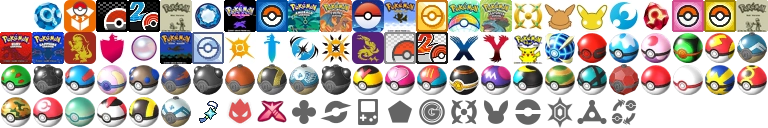
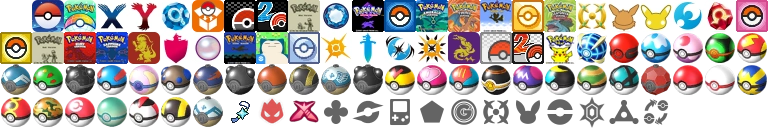
Add basic support for Pokémon Sleep

diff --git a/images/iconsheet.css b/images/iconsheet.css
@@ -1,1 +1,1 @@
-.icon {background-image: var(--link-iconsheet);background-repeat: no-repeat;display: inline-block;width:32px;height:32px}.icon[data-icon^="ball/"]{scale:.6}.icon[data-icon^="game/"]{border-radius:calc(.5 * var(--border-radius))}.icon[data-icon="game/alphasapphire"]{background-position: -32px -0px}.icon[data-icon="game/bank"]{background-position: -64px -0px}.icon[data-icon="game/black"]{background-position: -96px -0px}.icon[data-icon="game/black2"]{background-position: -128px -0px}.icon[data-icon="game/blue"]{background-position: -160px -0px}.icon[data-icon="game/brilliantdiamond"]{background-position: -192px -0px}.icon[data-icon="game/crystal"]{background-position: -224px -0px}.icon[data-icon="game/diamond"]{background-position: -256px -0px}.icon[data-icon="game/emerald"]{background-position: -288px -0px}.icon[data-icon="game/firered"]{background-position: -320px -0px}.icon[data-icon="game/go"]{background-position: -352px -0px}.icon[data-icon="game/gold"]{background-position: -384px -0px}.icon[data-icon="game/heartgold"]{background-position: -416px -0px}.icon[data-icon="game/home"]{background-position: -448px -0px}.icon[data-icon="game/leafgreen"]{background-position: -480px -0px}.icon[data-icon="game/legendsarceus"]{background-position: -512px -0px}.icon[data-icon="game/letsgoeevee"]{background-position: -544px -0px}.icon[data-icon="game/letsgopikachu"]{background-position: -576px -0px}.icon[data-icon="game/moon"]{background-position: -608px -0px}.icon[data-icon="game/omegaruby"]{background-position: -640px -0px}.icon[data-icon="game/pearl"]{background-position: -672px -0px}.icon[data-icon="game/platinum"]{background-position: -704px -0px}.icon[data-icon="game/red"]{background-position: -736px -0px}.icon[data-icon="game/ruby"]{background-position: -0px -32px}.icon[data-icon="game/sapphire"]{background-position: -32px -32px}.icon[data-icon="game/scarlet"]{background-position: -64px -32px}.icon[data-icon="game/shield"]{background-position: -96px -32px}.icon[data-icon="game/shiningpearl"]{background-position: -128px -32px}.icon[data-icon="game/silver"]{background-position: -160px -32px}.icon[data-icon="game/soulsilver"]{background-position: -192px -32px}.icon[data-icon="game/sun"]{background-position: -224px -32px}.icon[data-icon="game/sword"]{background-position: -256px -32px}.icon[data-icon="game/ultramoon"]{background-position: -288px -32px}.icon[data-icon="game/ultrasun"]{background-position: -320px -32px}.icon[data-icon="game/violet"]{background-position: -352px -32px}.icon[data-icon="game/white"]{background-position: -384px -32px}.icon[data-icon="game/white2"]{background-position: -416px -32px}.icon[data-icon="game/x"]{background-position: -448px -32px}.icon[data-icon="game/y"]{background-position: -480px -32px}.icon[data-icon="game/yellow"]{background-position: -512px -32px}.icon[data-icon="ball/beast"]{background-position: -544px -32px}.icon[data-icon="ball/cherish"]{background-position: -576px -32px}.icon[data-icon="ball/dive"]{background-position: -608px -32px}.icon[data-icon="ball/dream"]{background-position: -640px -32px}.icon[data-icon="ball/dusk"]{background-position: -672px -32px}.icon[data-icon="ball/fast"]{background-position: -704px -32px}.icon[data-icon="ball/feather"]{background-position: -736px -32px}.icon[data-icon="ball/friend"]{background-position: -0px -64px}.icon[data-icon="ball/gigaton"]{background-position: -32px -64px}.icon[data-icon="ball/great"]{background-position: -64px -64px}.icon[data-icon="ball/heal"]{background-position: -96px -64px}.icon[data-icon="ball/heavy"]{background-position: -128px -64px}.icon[data-icon="ball/hisuian-great"]{background-position: -160px -64px}.icon[data-icon="ball/hisuian-heavy"]{background-position: -192px -64px}.icon[data-icon="ball/hisuian-poke"]{background-position: -224px -64px}.icon[data-icon="ball/hisuian-ultra"]{background-position: -256px -64px}.icon[data-icon="ball/jet"]{background-position: -288px -64px}.icon[data-icon="ball/leaden"]{background-position: -320px -64px}.icon[data-icon="ball/level"]{background-position: -352px -64px}.icon[data-icon="ball/love"]{background-position: -384px -64px}.icon[data-icon="ball/lure"]{background-position: -416px -64px}.icon[data-icon="ball/luxury"]{background-position: -448px -64px}.icon[data-icon="ball/master"]{background-position: -480px -64px}.icon[data-icon="ball/moon"]{background-position: -512px -64px}.icon[data-icon="ball/nest"]{background-position: -544px -64px}.icon[data-icon="ball/net"]{background-position: -576px -64px}.icon[data-icon="ball/origin"]{background-position: -608px -64px}.icon[data-icon="ball/poke"]{background-position: -640px -64px}.icon[data-icon="ball/premier"]{background-position: -672px -64px}.icon[data-icon="ball/quick"]{background-position: -704px -64px}.icon[data-icon="ball/repeat"]{background-position: -736px -64px}.icon[data-icon="ball/safari"]{background-position: -0px -96px}.icon[data-icon="ball/sport"]{background-position: -32px -96px}.icon[data-icon="ball/strange"]{background-position: -64px -96px}.icon[data-icon="ball/timer"]{background-position: -96px -96px}.icon[data-icon="ball/ultra"]{background-position: -128px -96px}.icon[data-icon="ball/wing"]{background-position: -160px -96px}.icon[data-icon="key/shiny-charm"]{background-position: -192px -96px}.icon[data-icon="gene/alpha"]{background-position: -224px -96px}.icon[data-icon="gene/gigantamax"]{background-position: -256px -96px}.icon[data-icon="origin-mark/alola"]{background-position: -288px -96px}.icon[data-icon="origin-mark/galar"]{background-position: -320px -96px}.icon[data-icon="origin-mark/game-boy"]{background-position: -352px -96px}.icon[data-icon="origin-mark/gen6"]{background-position: -384px -96px}.icon[data-icon="origin-mark/go"]{background-position: -416px -96px}.icon[data-icon="origin-mark/hisui"]{background-position: -448px -96px}.icon[data-icon="origin-mark/lets-go"]{background-position: -480px -96px}.icon[data-icon="origin-mark/old"]{background-position: -512px -96px}.icon[data-icon="origin-mark/paldea"]{background-position: -544px -96px}.icon[data-icon="origin-mark/sinnoh-gen8"]{background-position: -576px -96px}.icon[data-icon="other/traded"]{background-position: -608px -96px}
+.icon {background-image: var(--link-iconsheet);background-repeat: no-repeat;display: inline-block;width:32px;height:32px}.icon[data-icon^="ball/"]{scale:.6}.icon[data-icon^="game/"]{border-radius:calc(.5 * var(--border-radius))}.icon[data-icon="game/GO"]{background-position: -32px -0px}.icon[data-icon="game/Home"]{background-position: -64px -0px}.icon[data-icon="game/X"]{background-position: -96px -0px}.icon[data-icon="game/Y"]{background-position: -128px -0px}.icon[data-icon="game/alphasapphire"]{background-position: -160px -0px}.icon[data-icon="game/bank"]{background-position: -192px -0px}.icon[data-icon="game/black"]{background-position: -224px -0px}.icon[data-icon="game/black2"]{background-position: -256px -0px}.icon[data-icon="game/blue"]{background-position: -288px -0px}.icon[data-icon="game/brilliantdiamond"]{background-position: -320px -0px}.icon[data-icon="game/crystal"]{background-position: -352px -0px}.icon[data-icon="game/diamond"]{background-position: -384px -0px}.icon[data-icon="game/emerald"]{background-position: -416px -0px}.icon[data-icon="game/firered"]{background-position: -448px -0px}.icon[data-icon="game/gold"]{background-position: -480px -0px}.icon[data-icon="game/heartgold"]{background-position: -512px -0px}.icon[data-icon="game/leafgreen"]{background-position: -544px -0px}.icon[data-icon="game/legendsarceus"]{background-position: -576px -0px}.icon[data-icon="game/letsgoeevee"]{background-position: -608px -0px}.icon[data-icon="game/letsgopikachu"]{background-position: -640px -0px}.icon[data-icon="game/moon"]{background-position: -672px -0px}.icon[data-icon="game/omegaruby"]{background-position: -704px -0px}.icon[data-icon="game/pearl"]{background-position: -736px -0px}.icon[data-icon="game/platinum"]{background-position: -0px -32px}.icon[data-icon="game/red"]{background-position: -32px -32px}.icon[data-icon="game/ruby"]{background-position: -64px -32px}.icon[data-icon="game/sapphire"]{background-position: -96px -32px}.icon[data-icon="game/scarlet"]{background-position: -128px -32px}.icon[data-icon="game/shield"]{background-position: -160px -32px}.icon[data-icon="game/shiningpearl"]{background-position: -192px -32px}.icon[data-icon="game/silver"]{background-position: -224px -32px}.icon[data-icon="game/sleep"]{background-position: -256px -32px}.icon[data-icon="game/soulsilver"]{background-position: -288px -32px}.icon[data-icon="game/sun"]{background-position: -320px -32px}.icon[data-icon="game/sword"]{background-position: -352px -32px}.icon[data-icon="game/ultramoon"]{background-position: -384px -32px}.icon[data-icon="game/ultrasun"]{background-position: -416px -32px}.icon[data-icon="game/violet"]{background-position: -448px -32px}.icon[data-icon="game/white"]{background-position: -480px -32px}.icon[data-icon="game/white2"]{background-position: -512px -32px}.icon[data-icon="game/yellow"]{background-position: -544px -32px}.icon[data-icon="ball/beast"]{background-position: -576px -32px}.icon[data-icon="ball/cherish"]{background-position: -608px -32px}.icon[data-icon="ball/dive"]{background-position: -640px -32px}.icon[data-icon="ball/dream"]{background-position: -672px -32px}.icon[data-icon="ball/dusk"]{background-position: -704px -32px}.icon[data-icon="ball/fast"]{background-position: -736px -32px}.icon[data-icon="ball/feather"]{background-position: -0px -64px}.icon[data-icon="ball/friend"]{background-position: -32px -64px}.icon[data-icon="ball/gigaton"]{background-position: -64px -64px}.icon[data-icon="ball/great"]{background-position: -96px -64px}.icon[data-icon="ball/heal"]{background-position: -128px -64px}.icon[data-icon="ball/heavy"]{background-position: -160px -64px}.icon[data-icon="ball/hisuian-great"]{background-position: -192px -64px}.icon[data-icon="ball/hisuian-heavy"]{background-position: -224px -64px}.icon[data-icon="ball/hisuian-poke"]{background-position: -256px -64px}.icon[data-icon="ball/hisuian-ultra"]{background-position: -288px -64px}.icon[data-icon="ball/jet"]{background-position: -320px -64px}.icon[data-icon="ball/leaden"]{background-position: -352px -64px}.icon[data-icon="ball/level"]{background-position: -384px -64px}.icon[data-icon="ball/love"]{background-position: -416px -64px}.icon[data-icon="ball/lure"]{background-position: -448px -64px}.icon[data-icon="ball/luxury"]{background-position: -480px -64px}.icon[data-icon="ball/master"]{background-position: -512px -64px}.icon[data-icon="ball/moon"]{background-position: -544px -64px}.icon[data-icon="ball/nest"]{background-position: -576px -64px}.icon[data-icon="ball/net"]{background-position: -608px -64px}.icon[data-icon="ball/origin"]{background-position: -640px -64px}.icon[data-icon="ball/poke"]{background-position: -672px -64px}.icon[data-icon="ball/premier"]{background-position: -704px -64px}.icon[data-icon="ball/quick"]{background-position: -736px -64px}.icon[data-icon="ball/repeat"]{background-position: -0px -96px}.icon[data-icon="ball/safari"]{background-position: -32px -96px}.icon[data-icon="ball/sport"]{background-position: -64px -96px}.icon[data-icon="ball/strange"]{background-position: -96px -96px}.icon[data-icon="ball/timer"]{background-position: -128px -96px}.icon[data-icon="ball/ultra"]{background-position: -160px -96px}.icon[data-icon="ball/wing"]{background-position: -192px -96px}.icon[data-icon="key/shiny-charm"]{background-position: -224px -96px}.icon[data-icon="gene/alpha"]{background-position: -256px -96px}.icon[data-icon="gene/gigantamax"]{background-position: -288px -96px}.icon[data-icon="origin-mark/alola"]{background-position: -320px -96px}.icon[data-icon="origin-mark/galar"]{background-position: -352px -96px}.icon[data-icon="origin-mark/game-boy"]{background-position: -384px -96px}.icon[data-icon="origin-mark/gen6"]{background-position: -416px -96px}.icon[data-icon="origin-mark/go"]{background-position: -448px -96px}.icon[data-icon="origin-mark/hisui"]{background-position: -480px -96px}.icon[data-icon="origin-mark/lets-go"]{background-position: -512px -96px}.icon[data-icon="origin-mark/old"]{background-position: -544px -96px}.icon[data-icon="origin-mark/paldea"]{background-position: -576px -96px}.icon[data-icon="origin-mark/sinnoh-gen8"]{background-position: -608px -96px}.icon[data-icon="other/traded"]{background-position: -640px -96px}

diff --git a/images/iconsheet.html b/images/iconsheet.html
@@ -67,6 +67,18 @@
           </li>
         </ul>
       </main>  <div class="container">
+    <div class="icon" data-icon="game/GO"></div>
+    <div>game/GO</div>
+  </div>  <div class="container">
+    <div class="icon" data-icon="game/Home"></div>
+    <div>game/Home</div>
+  </div>  <div class="container">
+    <div class="icon" data-icon="game/X"></div>
+    <div>game/X</div>
+  </div>  <div class="container">
+    <div class="icon" data-icon="game/Y"></div>
+    <div>game/Y</div>
+  </div>  <div class="container">
     <div class="icon" data-icon="game/alphasapphire"></div>
     <div>game/alphasapphire</div>
   </div>  <div class="container">
@@ -97,17 +109,11 @@
     <div class="icon" data-icon="game/firered"></div>
     <div>game/firered</div>
   </div>  <div class="container">
-    <div class="icon" data-icon="game/go"></div>
-    <div>game/go</div>
-  </div>  <div class="container">
     <div class="icon" data-icon="game/gold"></div>
     <div>game/gold</div>
   </div>  <div class="container">
     <div class="icon" data-icon="game/heartgold"></div>
     <div>game/heartgold</div>
-  </div>  <div class="container">
-    <div class="icon" data-icon="game/home"></div>
-    <div>game/home</div>
   </div>  <div class="container">
     <div class="icon" data-icon="game/leafgreen"></div>
     <div>game/leafgreen</div>
@@ -154,6 +160,9 @@
     <div class="icon" data-icon="game/silver"></div>
     <div>game/silver</div>
   </div>  <div class="container">
+    <div class="icon" data-icon="game/sleep"></div>
+    <div>game/sleep</div>
+  </div>  <div class="container">
     <div class="icon" data-icon="game/soulsilver"></div>
     <div>game/soulsilver</div>
   </div>  <div class="container">
@@ -177,12 +186,6 @@
   </div>  <div class="container">
     <div class="icon" data-icon="game/white2"></div>
     <div>game/white2</div>
-  </div>  <div class="container">
-    <div class="icon" data-icon="game/x"></div>
-    <div>game/x</div>
-  </div>  <div class="container">
-    <div class="icon" data-icon="game/y"></div>
-    <div>game/y</div>
   </div>  <div class="container">
     <div class="icon" data-icon="game/yellow"></div>
     <div>game/yellow</div>

diff --git a/src/modules/Shiny.ts b/src/modules/Shiny.ts
@@ -36,7 +36,7 @@ const allMethodes: Methode[] = [
   { id: 'massoutbreak', jeux: allGames.filter(g => g.id == 'pla' || g.id == 'sv'), mine: true, charm: true },
   { id: 'massivemassoutbreak', jeux: allGames.filter(g => g.id == 'pla'), mine: true, charm: true },
   
-  { id: 'wildevent', jeux: allGames.filter(g => g.gen == 0), mine: true, charm: false },
+  { id: 'wildevent', jeux: allGames.filter(g => g.id === 'go'), mine: true, charm: false },
   { id: 'wildalwaysshiny', jeux: allGames.filter(g => ['gs', 'hgss', 'bw2', 'pla'].includes(g.id)), mine: true, charm: false },
   { id: 'event', jeux: allGames.filter(g => g.gen > 1), mine: false, charm: false },
 
@@ -374,6 +374,10 @@ export class Shiny extends FrontendShiny {
         case 'sv': {
           const sparklingPower = this.count['sv-sparklingPower'] || 0;
           bonusRolls += sparklingPower;
+        } break;
+
+        case 'sleep': {
+          return null;
         } break;
       }
 

diff --git a/src/modules/Pokemon.ts b/src/modules/Pokemon.ts
@@ -54,7 +54,8 @@ const allGames: Jeu[] = [
   { uid: 'shiningpearl', gen: 8, id: 'bdsp', originMark: 'sinnoh-gen8', hasCharm: true },
   { uid: 'legendsarceus', gen: 8.1, id: 'pla', originMark: 'hisui', hasCharm: true },
   { uid: 'scarlet', gen: 9, id: 'sv', originMark: 'paldea', hasCharm: true },
-  { uid: 'violet', gen: 9, id: 'sv', originMark: 'paldea', hasCharm: true }
+  { uid: 'violet', gen: 9, id: 'sv', originMark: 'paldea', hasCharm: true },
+  { uid: 'sleep', gen: 0, id: 'sleep', hasCharm: false }
 ];
 
 
